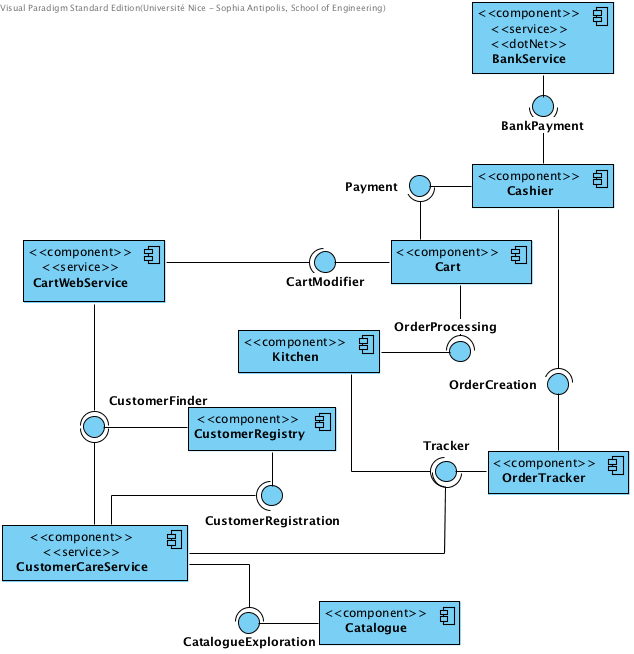
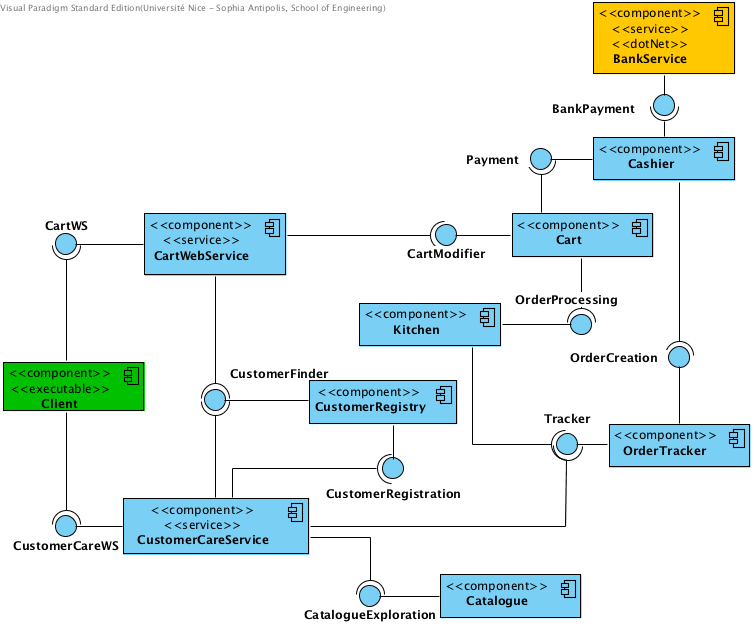
archi read me updated for first lab session

Changed region(s): [[0.0, 0.0, 1.0, 1.0], [0.0, 0.0, 0.5994, 0.0303]]

diff --git a/Readme.md b/Readme.md
@@ -28,15 +28,19 @@ To run the demonstration, first start the two servers in two different terminals
     mosser@azrael $ cd client
     mosser@azrael client$ mvn exec:java
 
+## Product vision
+
+_The Cookie Factory_ (TCF) is a major bakery brand in the USA. The _Cookie on Demand_ (CoD) system is an innovative service offered by TCF to its customer. They can order cookies online thanks to an application, and select when they'll pick-up their order in a given shop. The CoD system ensures to TCF's happy customers that they'll always retrieve their pre-paid warm cookies on time.
+
 ## Architecture
 
-System description
+### Functional components
 
-### Business Architecture
+![Architecture](https://raw.githubusercontent.com/polytechnice-si/4A_ISA_TheCookieFactory/master/docs/archi.png)
 
-Interfaces
+### Business objects
 
-Business objects
+Business objects TDB (export IntelliJ uml diagram ?)
 
 ### Technological Choices
 
@@ -51,6 +55,10 @@ Regarding the IDE support, this demonstration was designed using IntelliJ 15 Ult
 The J2E part of the TCF system is defined as a Maven project, in the `j2e` directory. The `pom.xml` file declares a set of dependency to support EJB development, as well as the configuration of the TomEE+ application server to smoothly deploy the implemented beans. As the system is implemented as a _WAR_ artifact for deployment purpose, we need to declare an empty _web.xml_ file in the `webapp/WEB-INF` directory. The unit tests are implemented as JUnit tests (classical), combined with the Arquilian framework to support the testing of components deployed in an application server. The configuration of Arquilian for test purpose is declared in the `src/test/resource` directory (file named `arquilian.xml`).
 
 __Warning__: Starting the backend with `mvn tomee:run` will not trigger a compilation of the system if the backend was previously built. You'll have to invoke `mvn package tomee:run` to force maven to recompile the system.
+
+#### Client 
+
+The client acts as an interactive command-line. We store the WSDL contracts as java resources (`src/main/resources`). The package `cli.framework` defines a very simple interactive shell, and the package `cli.commands` implements the different commands available in the shell for the customer. 
 
 ## First step: Customer's Cart
 
@@ -169,6 +177,8 @@ public class CartTest {
 ```
 
 You must remark that the `Cart` is never initialized. This is how _dependency injection_ works. The container analyzes the `@EJB` annotation and will bind your local variable to an instance a component that respect this interface, at runtime. __It is not your responsibility anymore to instantiate objects when they implement EJBs__.
+
+To run the tests from your IDE, you must configure the environment to be _Arquillian-compliant_ (_i.e._, started inside a J2E container). IntelliJ users simply have to answer to the questions asked by the IDE, selecting a TomEE container when asked for. This also allows one to activate the debug mode while testing. If you decide to go for the latests versions of the different APIs (_i.e._, using SNAPSHOTs versions in your POM), there is no IDE integration provided, you'll only rely on Maven for test execution, and no debug mode will be available.
 
 ### Going State-less
 
